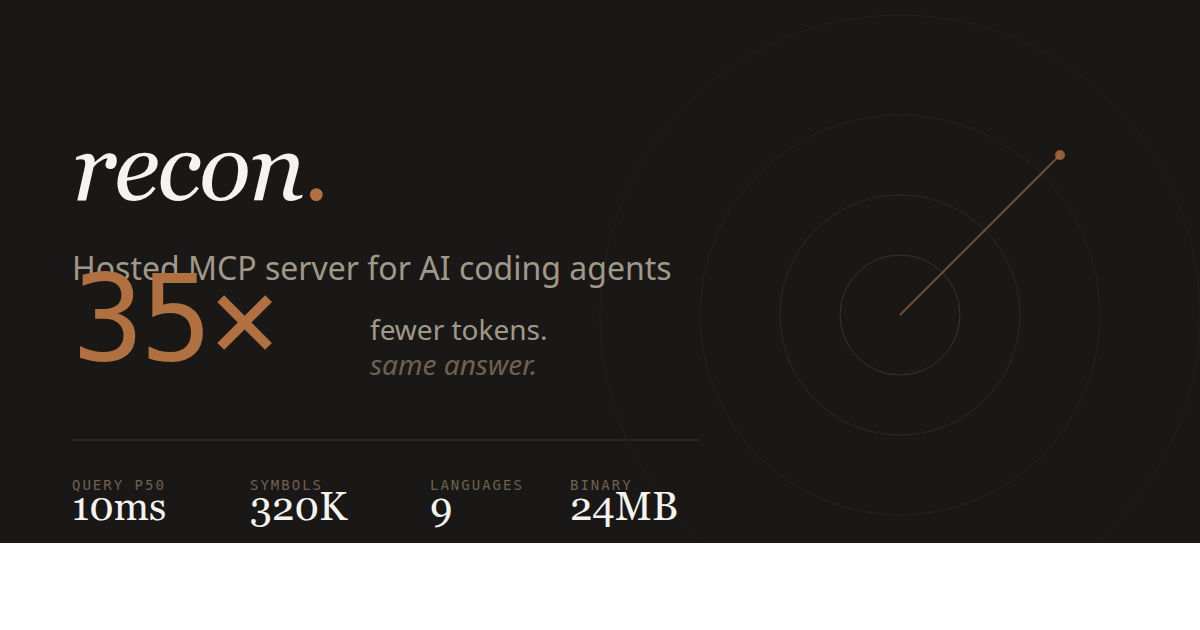
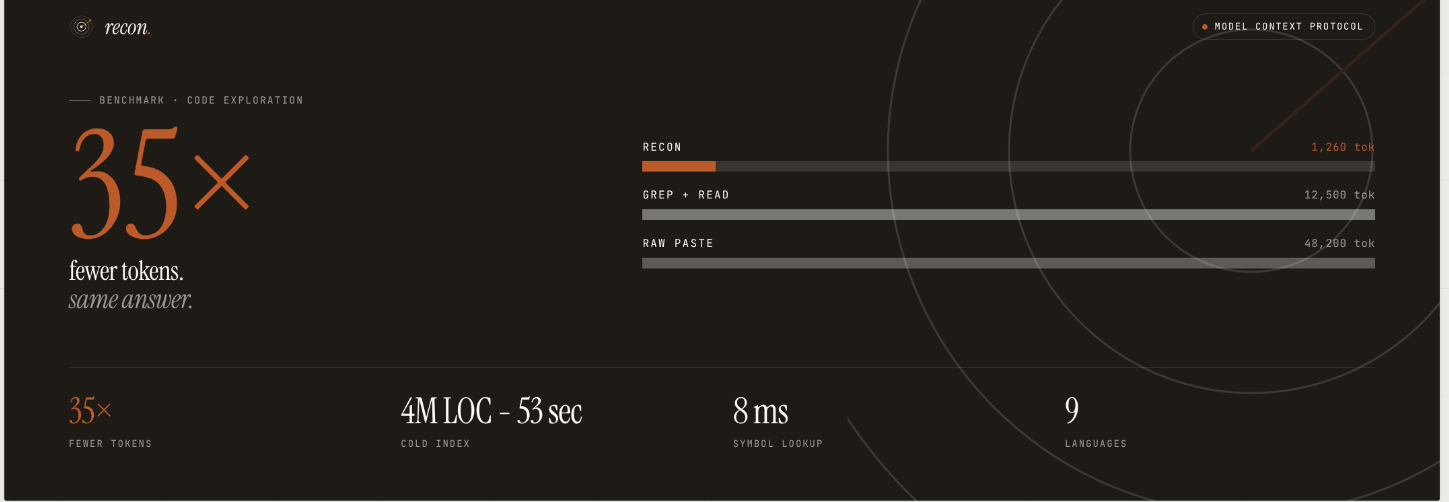
deploy: Worker live at recon-api.workers.dev, D1 migrated, Pages proxy configured
- D1 database created: recon-production (ac8c7180-57b5-4121-9941-e28a8a745f54)
- Migration 0001_initial applied (5 tables, all indexes)
- Worker deployed: https://recon-api.kumarashutosh34169.workers.dev
- All 10 API endpoints tested and responding correctly
- Pages _redirects proxies /api/* to Worker (same-origin for frontend)
- JS updated to use /api/v1/* relative paths (no CORS needed)
- Rust CLI default API URL updated to mcprecon.pages.dev/api
- Auth callback redirects to mcprecon.pages.dev/dashboard

diff --git a/worker/src/index.ts b/worker/src/index.ts
@@ -13,7 +13,13 @@ const app = new Hono<{ Bindings: Env }>();
 app.use("*", cors);
 app.onError(errorHandler);
 
-// API routes
+// API routes — served at /api/v1/* via Pages proxy
+app.route("/api/v1/license", licenseRoutes);
+app.route("/api/v1/auth", authRoutes);
+app.route("/api/v1/dashboard", dashboardRoutes);
+app.route("/api/v1/billing", billingRoutes);
+
+// Also mount without /api prefix for direct Worker access
 app.route("/v1/license", licenseRoutes);
 app.route("/v1/auth", authRoutes);
 app.route("/v1/dashboard", dashboardRoutes);
@@ -21,6 +27,7 @@ app.route("/v1/billing", billingRoutes);
 
 // Health check
 app.get("/health", (c) => c.json({ status: "ok", version: "1.0.0" }));
+app.get("/api/health", (c) => c.json({ status: "ok", version: "1.0.0" }));
 
 // 404 fallback
 app.all("*", (c) => c.json({ error: "Not found" }, 404));

diff --git a/site/js/auth.js b/site/js/auth.js
@@ -3,11 +3,11 @@
  * Checks session via /v1/auth/me and updates the nav.
  */
 
-const API = "https://api.recon.dev";
+const API = "/api";
 
 async function checkAuth() {
   try {
-    const resp = await fetch(`${API}/v1/auth/me`, { credentials: "include" });
+    const resp = await fetch(`/api/v1/auth/me`, { credentials: "include" });
     if (resp.ok) return await resp.json();
   } catch {
     // Server unreachable — not authenticated

diff --git a/site/js/dashboard.js b/site/js/dashboard.js
@@ -2,7 +2,7 @@
  * Dashboard page logic — API keys management, billing status.
  */
 
-const API = "https://api.recon.dev";
+const API = "/api";
 
 async function loadDashboard() {
   // Check auth

diff --git a/site/js/pricing.js b/site/js/pricing.js
@@ -2,7 +2,7 @@
  * Pricing page — Razorpay checkout integration.
  */
 
-const API = "https://api.recon.dev";
+const API = "/api";
 
 let currentUser = null;
 

diff --git a/site/login.html b/site/login.html
@@ -27,7 +27,7 @@ p{color:var(--ink-2);font-size:.95rem;margin-bottom:32px;line-height:1.5}
 <div class="login-card">
   <h1>Sign in to recon</h1>
   <p>Connect your GitHub account to generate API keys and manage your subscription.</p>
-  <a href="https://api.recon.dev/v1/auth/github" class="gh-btn">
+  <a href="/api/v1/auth/github" class="gh-btn">
     <svg viewBox="0 0 24 24"><path d="M12 0C5.37 0 0 5.37 0 12c0 5.31 3.435 9.795 8.205 11.385.6.105.825-.255.825-.57 0-.285-.015-1.23-.015-2.235-3.015.555-3.795-.735-4.035-1.41-.135-.345-.72-1.41-1.23-1.695-.42-.225-1.02-.78-.015-.795.945-.015 1.62.87 1.845 1.23 1.08 1.815 2.805 1.305 3.495.99.105-.78.42-1.305.765-1.605-2.67-.3-5.46-1.335-5.46-5.925 0-1.305.465-2.385 1.23-3.225-.12-.3-.54-1.53.12-3.18 0 0 1.005-.315 3.3 1.23.96-.27 1.98-.405 3-.405s2.04.135 3 .405c2.295-1.56 3.3-1.23 3.3-1.23.66 1.65.24 2.88.12 3.18.765.84 1.23 1.905 1.23 3.225 0 4.605-2.805 5.625-5.475 5.925.435.375.81 1.095.81 2.22 0 1.605-.015 2.895-.015 3.3 0 .315.225.69.825.57A12.02 12.02 0 0024 12c0-6.63-5.37-12-12-12z"/></svg>
     Sign in with GitHub
   </a>

diff --git a/crates/recon-server/src/license.rs b/crates/recon-server/src/license.rs
@@ -18,7 +18,7 @@ use tracing::{debug, info, warn};
 const CACHE_TTL_SECS: u64 = 86_400;
 
 /// Default API endpoint. Override with `RECON_API_URL` env var.
-const DEFAULT_API_URL: &str = "https://api.recon.dev";
+const DEFAULT_API_URL: &str = "https://mcprecon.pages.dev/api";
 
 /// Response from the license server.
 #[derive(Debug, Clone, Serialize, Deserialize)]